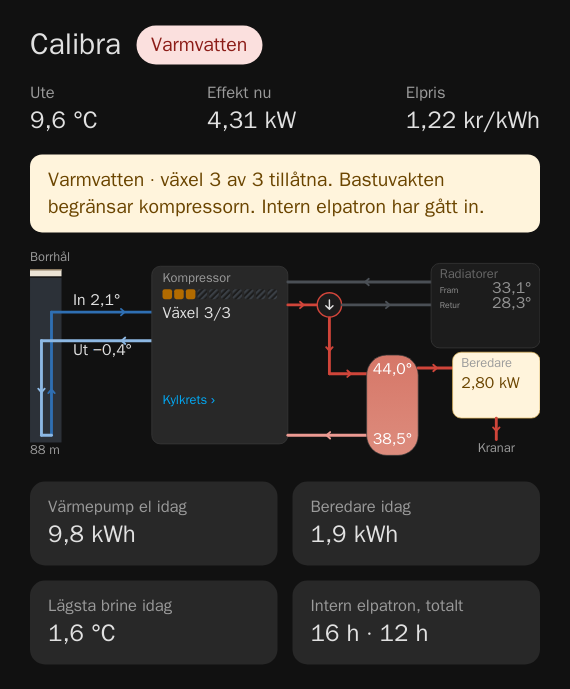
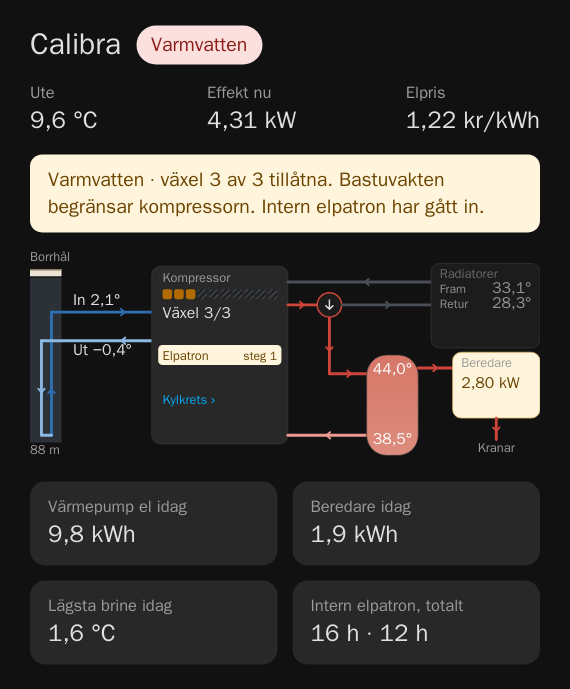
Show the immersion heater row in the compact layout (0.1.1)

Changed region(s): [[0.2684, 0.4877, 0.507, 0.5486], [0.7754, 0.3962, 0.8053, 0.4572]]

diff --git a/dist/calibra-card.js b/dist/calibra-card.js
@@ -9,7 +9,7 @@
  * MIT License
  */
 
-const CARD_VERSION = "0.1.0";
+const CARD_VERSION = "0.1.1";
 
 // Entity defaults: the thermiagenesis entity ids. Anything else (power meter, price, the
 // valve, the water heater) is site specific and only shown when configured.
@@ -60,7 +60,7 @@ const T = {
   sv: {
     title: "Värmepump", borehole: "Borrhål", in: "In", out: "Ut", compressor: "Kompressor",
     gearOf: (g, m) => `Växel ${g} av ${m}`, gearOfAllowed: (g, m) => `Växel ${g} av ${m} tillåtna`,
-    stopped: "Står still", brinePump: "Brinepump", condPump: "Kondensorpump", immersion: "Intern elpatron",
+    stopped: "Står still", brinePump: "Brinepump", condPump: "Kondensorpump", immersion: "Intern elpatron", immersionShort: "Elpatron",
     off: "av", on: "på", step: (s) => `steg ${s}`, circuit: "Kylkrets ›", radiators: "Radiatorer", supply: "Fram", ret: "Retur",
     valve: "Ventil →", toHeat: "värme", toTap: "varmvatten", heater: "Beredare", heaterSub: "Egen termostat",
     heaterIdle: "vilar", heaterOn: "värmer", taps: "Kranar", outdoor: "Ute", power: "Effekt nu", price: "Elpris",
@@ -82,7 +82,7 @@ const T = {
   en: {
     title: "Heat pump", borehole: "Borehole", in: "In", out: "Out", compressor: "Compressor",
     gearOf: (g, m) => `Gear ${g} of ${m}`, gearOfAllowed: (g, m) => `Gear ${g} of ${m} allowed`,
-    stopped: "Stopped", brinePump: "Brine pump", condPump: "Condenser pump", immersion: "Immersion heater",
+    stopped: "Stopped", brinePump: "Brine pump", condPump: "Condenser pump", immersion: "Immersion heater", immersionShort: "Immersion",
     off: "off", on: "on", step: (s) => `step ${s}`, circuit: "Refrigerant ›", radiators: "Radiators", supply: "Supply", ret: "Return",
     valve: "Valve →", toHeat: "heating", toTap: "hot water", heater: "Water heater", heaterSub: "Own thermostat",
     heaterIdle: "idle", heaterOn: "heating", taps: "Taps", outdoor: "Outdoor", power: "Power", price: "Price",
@@ -375,7 +375,9 @@ class CalibraCard extends HTMLElement {
     <line x1="185" y1="154" x2="345" y2="154" class="div opt"/>
     ${hpRows.map(([l, v, ent], i) => `${txt(185, 174 + i * 20, l, "lbl opt")}${txt(345, 174 + i * 20, v, "sm opt", ent, "end")}`).join("")}
     ${m.immersion ? `<g class="opt">${m.immersion.on ? `<rect x="179" y="203" width="172" height="20" rx="6" fill="var(--calibra-warn-bg, #fff4dc)"/>` : ""}
-      ${txt(185, 217, t.immersion, m.immersion.on ? "sm warn" : "lbl")}${txt(345, 217, m.immersion.text, m.immersion.on ? "sm warn strong" : "sm", e.immersion, "end")}</g>` : ""}
+      ${txt(185, 217, t.immersion, m.immersion.on ? "sm warn" : "lbl")}${txt(345, 217, m.immersion.text, m.immersion.on ? "sm warn strong" : "sm", e.immersion, "end")}</g>
+    <g class="short imm-compact">${m.immersion.on ? `<rect x="179" y="166" width="172" height="28" rx="6" fill="var(--calibra-warn-bg, #fff4dc)"/>` : ""}
+      ${txt(185, 187, t.immersionShort, m.immersion.on ? "lbl warn" : "lbl")}${txt(345, 187, m.immersion.text, m.immersion.on ? "sm warn strong" : "sm", e.immersion, "end")}</g>` : ""}
     ${txt(185, 248, t.circuit, "link")}
   </g>
 

diff --git a/test/card.test.js b/test/card.test.js
@@ -183,3 +183,12 @@ test("helpers", () => {
   assert.equal(tankColor(25).dark, false);
   assert.ok(DEFAULT_ENTITIES.brine_in.startsWith("sensor."));
 });
+
+test("compact mode keeps an immersion heater row", () => {
+  const c = card({ "sensor.immersion_step": "2" });
+  c._compact = true;
+  c._render();
+  const h = html(c);
+  assert.match(h, /class="wrap compact"/);
+  assert.match(h, /class="short imm-compact"[\s\S]*?>Elpatron<[\s\S]*?>steg 2</);
+});

diff --git a/CHANGELOG.md b/CHANGELOG.md
@@ -1,5 +1,9 @@
 # Changelog
 
+## 0.1.1 — 2026-10-24
+
+- The compact layout (below 560 px) also shows the immersion heater row in the compressor box: "Elpatron av", or highlighted with the active step.
+
 ## 0.1.0 — 2026-10-24
 
 First version:
